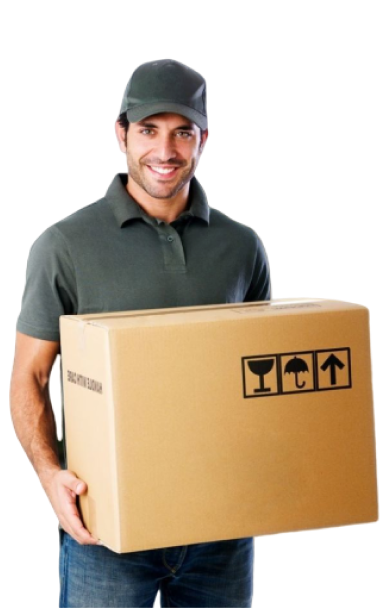
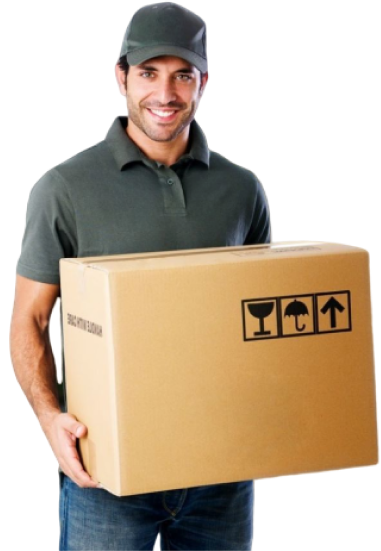
amendments to the header section

Changed region(s): [[0.0, 0.0, 1.0, 0.9564], [0.4042, 0.9564, 0.4331, 0.9873]]

diff --git a/app/css/app.min.css b/app/css/app.min.css
@@ -1,1 +1,1 @@
-*,::after,::before{-webkit-box-sizing:border-box;box-sizing:border-box}html{font-family:sans-serif;line-height:1.15;-webkit-text-size-adjust:100%;-webkit-tap-highlight-color:transparent}article,aside,figcaption,figure,footer,header,hgroup,main,nav,section{display:block}body{margin:0;font-family:-apple-system,BlinkMacSystemFont,"Segoe UI",Roboto,"Helvetica Neue",Arial,"Noto Sans",sans-serif,"Apple Color Emoji","Segoe UI Emoji","Segoe UI Symbol","Noto Color Emoji";font-size:1rem;font-weight:400;line-height:1.5;color:#212529;text-align:left;background-color:#fff}[tabindex="-1"]:focus:not(:focus-visible){outline:0!important}hr{-webkit-box-sizing:content-box;box-sizing:content-box;height:0;overflow:visible}h1,h2,h3,h4,h5,h6{margin-top:0;margin-bottom:.5rem}p{margin-top:0;margin-bottom:1rem}abbr[data-original-title],abbr[title]{text-decoration:underline;-webkit-text-decoration:underline dotted;text-decoration:underline dotted;cursor:help;border-bottom:0;-webkit-text-decoration-skip-ink:none;text-decoration-skip-ink:none}address{margin-bottom:1rem;font-style:normal;line-height:inherit}dl,ol,ul{margin-top:0;margin-bottom:1rem}ol ol,ol ul,ul ol,ul ul{margin-bottom:0}dt{font-weight:700}dd{margin-bottom:.5rem;margin-left:0}blockquote{margin:0 0 1rem}b,strong{font-weight:bolder}small{font-size:80%}sub,sup{position:relative;font-size:75%;line-height:0;vertical-align:baseline}sub{bottom:-.25em}sup{top:-.5em}a{color:#007bff;text-decoration:none;background-color:transparent}a:hover{color:#0056b3;text-decoration:underline}a:not([href]):not([class]){color:inherit;text-decoration:none}a:not([href]):not([class]):hover{color:inherit;text-decoration:none}code,kbd,pre,samp{font-family:SFMono-Regular,Menlo,Monaco,Consolas,"Liberation Mono","Courier New",monospace;font-size:1em}pre{margin-top:0;margin-bottom:1rem;overflow:auto;-ms-overflow-style:scrollbar}figure{margin:0 0 1rem}img{vertical-align:middle;border-style:none}svg{overflow:hidden;vertical-align:middle}table{border-collapse:collapse}caption{padding-top:.75rem;padding-bottom:.75rem;color:#6c757d;text-align:left;caption-side:bottom}th{text-align:inherit;text-align:-webkit-match-parent}label{display:inline-block;margin-bottom:.5rem}button{border-radius:0}button:focus{outline:1px dotted;outline:5px auto -webkit-focus-ring-color}button,input,optgroup,select,textarea{margin:0;font-family:inherit;font-size:inherit;line-height:inherit}button,input{overflow:visible}button,select{text-transform:none}[role=button]{cursor:pointer}select{word-wrap:normal}[type=button],[type=reset],[type=submit],button{-webkit-appearance:button}[type=button]:not(:disabled),[type=reset]:not(:disabled),[type=submit]:not(:disabled),button:not(:disabled){cursor:pointer}[type=button]::-moz-focus-inner,[type=reset]::-moz-focus-inner,[type=submit]::-moz-focus-inner,button::-moz-focus-inner{padding:0;border-style:none}input[type=checkbox],input[type=radio]{-webkit-box-sizing:border-box;box-sizing:border-box;padding:0}textarea{overflow:auto;resize:vertical}fieldset{min-width:0;padding:0;margin:0;border:0}legend{display:block;width:100%;max-width:100%;padding:0;margin-bottom:.5rem;font-size:1.5rem;line-height:inherit;color:inherit;white-space:normal}progress{vertical-align:baseline}[type=number]::-webkit-inner-spin-button,[type=number]::-webkit-outer-spin-button{height:auto}[type=search]{outline-offset:-2px;-webkit-appearance:none}[type=search]::-webkit-search-decoration{-webkit-appearance:none}::-webkit-file-upload-button{font:inherit;-webkit-appearance:button}output{display:inline-block}summary{display:list-item;cursor:pointer}template{display:none}[hidden]{display:none!important}@font-face{font-family:Montserrat;font-style:normal;font-weight:300;src:local("Montserrat"),url(../fonts/montserrat-light-webfont.woff2) format("woff2")}@font-face{font-family:Montserrat;font-style:normal;font-weight:400;src:local("Montserrat"),url(../fonts/montserrat-regular-webfont.woff2) format("woff2")}@font-face{font-family:Montserrat;font-style:normal;font-weight:500;src:local("Montserrat"),url(../fonts/montserrat-medium-webfont.woff2) format("woff2")}@font-face{font-family:Montserrat;font-style:normal;font-weight:600;src:local("Montserrat"),url(../fonts/montserrat-semibold-webfont.woff2) format("woff2")}@font-face{font-family:Montserrat;font-style:normal;font-weight:700;src:local("Montserrat"),url(../fonts/montserrat-bold-webfont.woff2) format("woff2")}::-webkit-input-placeholder{color:#333}::-moz-placeholder{color:#333}:-ms-input-placeholder{color:#333}::-ms-input-placeholder{color:#333}::placeholder{color:#333}::-moz-selection{background-color:#211111;color:#333}::selection{background-color:#211111;color:#333}input,textarea{outline:0}input:focus:required:invalid,textarea:focus:required:invalid{border-color:red}input:required:valid,textarea:required:valid{border-color:green}a{color:#333}a:hover{color:#ff352b;-webkit-transition:color .3s ease-out;-o-transition:color .3s ease-out;transition:color .3s ease-out;text-decoration:none}a:focus{color:#6e09aa}li,ul{display:inline;padding:0;text-decoration:none;list-style-type:none}h1,h2,h3,h4,h5,h6{margin:0}.container{max-width:1305px;margin:auto}body{font-family:Montserrat,sans-serif;font-size:16px;margin:auto;max-width:1920px;min-width:320px;position:relative;line-height:1.65;overflow-x:hidden;color:#333;background-color:#fff}.header{position:-webkit-sticky;position:sticky;background:#fed100 no-repeat center;padding-right:15px;padding-left:15px;background-position:fixed;background-position-x:86%;background-position-y:69%}.header__top-nav{padding-top:40px;padding-bottom:63px;display:-webkit-box;display:-ms-flexbox;display:flex;-webkit-box-pack:justify;-ms-flex-pack:justify;justify-content:space-between;-webkit-box-align:center;-ms-flex-align:center;align-items:center}.header__logo{font-family:Montserrat,sans-serif;font-weight:600;font-size:30px;line-height:37px;color:#333;padding-right:95px}.header__menu .top-menu__item{font-family:Montserrat,sans-serif;font-weight:500;font-size:18px;line-height:22px;color:#333;padding-right:46px}.header__menu .top-menu__item:last-child{padding-right:0}.header__menu .top-menu__link{position:relative}.header__menu .top-menu__link::after{display:block;position:absolute;left:0;width:0;height:2px;background-color:red;content:"";-webkit-transition:width .3s ease-out;-o-transition:width .3s ease-out;transition:width .3s ease-out}.header__menu .top-menu__link:hover:after{width:100%}.header__menu .top-menu__link:focus:after{width:100%}.header__phone{font-family:Montserrat,sans-serif;font-weight:600;font-size:24px;line-height:21px;color:#333;border-bottom:1px solid #333;display:inline-block;-webkit-transition:all .3s ease-out;-o-transition:all .3s ease-out;transition:all .3s ease-out}.header__phone:hover{border-bottom:1px solid #ff352b}.header__phone:focus{border-bottom:1px solid #ff352b}.header__main-content{position:relative}.header__main-content .header-main__title-block{padding-bottom:50px}.header__main-content .header-main__title{font-family:Montserrat,sans-serif;font-weight:700;font-size:70px;line-height:74px;color:#333;padding-bottom:15px}.header__main-content .header-main__subtitle{font-family:Montserrat,sans-serif;font-weight:600;font-size:30px;line-height:37px;color:#333}.header__main-content .header-main__button-block{max-width:546px;padding-bottom:83px}.header__main-content .header-main__button{position:relative;font-family:Montserrat,sans-serif;font-weight:600;font-size:24px;line-height:29px;color:#f2f2f2;background-color:#ff352b;padding:16px 95px;text-align:center;outline:0;border:none;-webkit-transition:color .5s;-o-transition:color .5s;transition:color .5s;cursor:pointer;margin-bottom:76px}.header__main-content .header-main__button:after{content:"";position:absolute;left:10px;top:10px;width:100%;height:100%;border:2px solid #f2f2f2;-webkit-transition:all .3s .2s;-o-transition:all .3s .2s;transition:all .3s .2s;z-index:-1}.header__main-content .header-main__button:hover{color:#f2f2f2}.header__main-content .header-main__button:hover:after{-webkit-transition:all .3s;-o-transition:all .3s;transition:all .3s;left:0;top:0;z-index:0}.header__main-content .header-main__advantages{display:-webkit-box;display:-ms-flexbox;display:flex;-webkit-box-pack:justify;-ms-flex-pack:justify;justify-content:space-between;-webkit-box-align:center;-ms-flex-align:center;align-items:center}.header__main-content .header-main__advantages-block{display:-webkit-box;display:-ms-flexbox;display:flex;-webkit-box-orient:horizontal;-webkit-box-direction:reverse;-ms-flex-direction:row-reverse;flex-direction:row-reverse;-webkit-box-align:center;-ms-flex-align:center;align-items:center;-webkit-box-pack:center;-ms-flex-pack:center;justify-content:center}.header__main-content .header-main__advantages-text{font-family:Montserrat,sans-serif;font-weight:400;font-size:16px;line-height:21px;color:#333}.header__main-content .header-main__advantages-img{padding-right:10px}.header__main-content .header-main__image{position:absolute;left:47%;top:-19%;z-index:-1}.header__main-content .header-main__image::after{position:absolute;content:'movee';text-transform:uppercase;display:block;font-family:Montserrat,sans-serif;font-weight:500;font-size:20px;line-height:24px;color:#333;-webkit-transform:rotate(-7deg);-ms-transform:rotate(-7deg);transform:rotate(-7deg);left:34%;top:85%}.header__main-content .header-main__car-img{position:absolute;top:21%;left:78%;z-index:-1}.header__main-content .header-main__phone{position:absolute;right:35px;bottom:58px}.header__main-content .header-main__phone .phone-main__block,.header__main-content .header-main__phone .phone-main__phone,.header__main-content .header-main__phone .phone-main__pulse{position:absolute;width:100px;height:100px;color:#fff;text-align:center;border-radius:50%}.header__main-content .header-main__phone .phone-main__block{cursor:pointer;z-index:1;overflow:hidden}.header__main-content .header-main__phone .phone-main__pulse{background:#5cc2e2;position:relative;-webkit-transition:.5s;-o-transition:.5s;transition:.5s}.header__main-content .header-main__phone .phone-main__phone{font-size:50px;line-height:94px;-webkit-animation:phone .9s ease-in-out infinite;animation:phone .9s ease-in-out infinite}.header__main-content .header-main__phone .phone-main__text{position:absolute;opacity:0;text-transform:uppercase;font-weight:700;top:28px;font-size:15px;-webkit-transform:scaleX(-1);-ms-transform:scaleX(-1);transform:scaleX(-1);-webkit-transition:.5s ease-in-out;-o-transition:.5s ease-in-out;transition:.5s ease-in-out}.header__main-content .header-main__phone .phone-main__phone img{-webkit-transition:.5s ease-in-out;-o-transition:.5s ease-in-out;transition:.5s ease-in-out}.header__main-content .header-main__phone .phone-main__pulse:hover{background:#29aee3}.header__main-content .header-main__phone .phone-main__pulse:hover img{-webkit-transition:.5s ease-in-out;-o-transition:.5s ease-in-out;transition:.5s ease-in-out;-webkit-transform:scale(0);-ms-transform:scale(0);transform:scale(0)}.header__main-content .header-main__phone .phone-main__pulse:hover .phone-main__text{-webkit-transform:scaleX(1);-ms-transform:scaleX(1);transform:scaleX(1);-webkit-transition:.5s ease-in-out;-o-transition:.5s ease-in-out;transition:.5s ease-in-out;opacity:1}.header__main-content .header-main__phone .phone-main__pulse:hover::after,.header__main-content .header-main__phone .phone-main__pulse:hover::before{content:'';position:absolute;border:1px solid #29aee3;left:-20px;right:-20px;top:-20px;bottom:-20px;border-radius:50%;-webkit-animation:pulse 1.8s linear infinite;animation:pulse 1.8s linear infinite;opacity:0}.header__main-content .header-main__phone .phone-main__pulse:hover::after{-webkit-animation-delay:.5s;animation-delay:.5s}@-webkit-keyframes phone{0%,100%{-webkit-transform:rotate(-20deg);transform:rotate(-20deg)}50%{-webkit-transform:rotate(21deg);transform:rotate(21deg)}}@keyframes phone{0%,100%{-webkit-transform:rotate(-20deg);transform:rotate(-20deg)}50%{-webkit-transform:rotate(21deg);transform:rotate(21deg)}}@-webkit-keyframes pulse{0%{-webkit-transform:scale(.5);transform:scale(.5);opacity:0}50%{opacity:1}100%{-webkit-transform:scale(1.2);transform:scale(1.2);opacity:0}}@keyframes pulse{0%{-webkit-transform:scale(.5);transform:scale(.5);opacity:0}50%{opacity:1}100%{-webkit-transform:scale(1.2);transform:scale(1.2);opacity:0}}
+*,::after,::before{-webkit-box-sizing:border-box;box-sizing:border-box}html{font-family:sans-serif;line-height:1.15;-webkit-text-size-adjust:100%;-webkit-tap-highlight-color:transparent}article,aside,figcaption,figure,footer,header,hgroup,main,nav,section{display:block}body{margin:0;font-family:-apple-system,BlinkMacSystemFont,"Segoe UI",Roboto,"Helvetica Neue",Arial,"Noto Sans",sans-serif,"Apple Color Emoji","Segoe UI Emoji","Segoe UI Symbol","Noto Color Emoji";font-size:1rem;font-weight:400;line-height:1.5;color:#212529;text-align:left;background-color:#fff}[tabindex="-1"]:focus:not(:focus-visible){outline:0!important}hr{-webkit-box-sizing:content-box;box-sizing:content-box;height:0;overflow:visible}h1,h2,h3,h4,h5,h6{margin-top:0;margin-bottom:.5rem}p{margin-top:0;margin-bottom:1rem}abbr[data-original-title],abbr[title]{text-decoration:underline;-webkit-text-decoration:underline dotted;text-decoration:underline dotted;cursor:help;border-bottom:0;-webkit-text-decoration-skip-ink:none;text-decoration-skip-ink:none}address{margin-bottom:1rem;font-style:normal;line-height:inherit}dl,ol,ul{margin-top:0;margin-bottom:1rem}ol ol,ol ul,ul ol,ul ul{margin-bottom:0}dt{font-weight:700}dd{margin-bottom:.5rem;margin-left:0}blockquote{margin:0 0 1rem}b,strong{font-weight:bolder}small{font-size:80%}sub,sup{position:relative;font-size:75%;line-height:0;vertical-align:baseline}sub{bottom:-.25em}sup{top:-.5em}a{color:#007bff;text-decoration:none;background-color:transparent}a:hover{color:#0056b3;text-decoration:underline}a:not([href]):not([class]){color:inherit;text-decoration:none}a:not([href]):not([class]):hover{color:inherit;text-decoration:none}code,kbd,pre,samp{font-family:SFMono-Regular,Menlo,Monaco,Consolas,"Liberation Mono","Courier New",monospace;font-size:1em}pre{margin-top:0;margin-bottom:1rem;overflow:auto;-ms-overflow-style:scrollbar}figure{margin:0 0 1rem}img{vertical-align:middle;border-style:none}svg{overflow:hidden;vertical-align:middle}table{border-collapse:collapse}caption{padding-top:.75rem;padding-bottom:.75rem;color:#6c757d;text-align:left;caption-side:bottom}th{text-align:inherit;text-align:-webkit-match-parent}label{display:inline-block;margin-bottom:.5rem}button{border-radius:0}button:focus{outline:1px dotted;outline:5px auto -webkit-focus-ring-color}button,input,optgroup,select,textarea{margin:0;font-family:inherit;font-size:inherit;line-height:inherit}button,input{overflow:visible}button,select{text-transform:none}[role=button]{cursor:pointer}select{word-wrap:normal}[type=button],[type=reset],[type=submit],button{-webkit-appearance:button}[type=button]:not(:disabled),[type=reset]:not(:disabled),[type=submit]:not(:disabled),button:not(:disabled){cursor:pointer}[type=button]::-moz-focus-inner,[type=reset]::-moz-focus-inner,[type=submit]::-moz-focus-inner,button::-moz-focus-inner{padding:0;border-style:none}input[type=checkbox],input[type=radio]{-webkit-box-sizing:border-box;box-sizing:border-box;padding:0}textarea{overflow:auto;resize:vertical}fieldset{min-width:0;padding:0;margin:0;border:0}legend{display:block;width:100%;max-width:100%;padding:0;margin-bottom:.5rem;font-size:1.5rem;line-height:inherit;color:inherit;white-space:normal}progress{vertical-align:baseline}[type=number]::-webkit-inner-spin-button,[type=number]::-webkit-outer-spin-button{height:auto}[type=search]{outline-offset:-2px;-webkit-appearance:none}[type=search]::-webkit-search-decoration{-webkit-appearance:none}::-webkit-file-upload-button{font:inherit;-webkit-appearance:button}output{display:inline-block}summary{display:list-item;cursor:pointer}template{display:none}[hidden]{display:none!important}@font-face{font-family:Montserrat;font-style:normal;font-weight:300;src:local("Montserrat"),url(../fonts/montserrat-light-webfont.woff2) format("woff2")}@font-face{font-family:Montserrat;font-style:normal;font-weight:400;src:local("Montserrat"),url(../fonts/montserrat-regular-webfont.woff2) format("woff2")}@font-face{font-family:Montserrat;font-style:normal;font-weight:500;src:local("Montserrat"),url(../fonts/montserrat-medium-webfont.woff2) format("woff2")}@font-face{font-family:Montserrat;font-style:normal;font-weight:600;src:local("Montserrat"),url(../fonts/montserrat-semibold-webfont.woff2) format("woff2")}@font-face{font-family:Montserrat;font-style:normal;font-weight:700;src:local("Montserrat"),url(../fonts/montserrat-bold-webfont.woff2) format("woff2")}::-webkit-input-placeholder{color:#333}::-moz-placeholder{color:#333}:-ms-input-placeholder{color:#333}::-ms-input-placeholder{color:#333}::placeholder{color:#333}::-moz-selection{background-color:#211111;color:#333}::selection{background-color:#211111;color:#333}input,textarea{outline:0}input:focus:required:invalid,textarea:focus:required:invalid{border-color:red}input:required:valid,textarea:required:valid{border-color:green}a{color:#333}a:hover{color:#ff352b;-webkit-transition:color .3s ease-out;-o-transition:color .3s ease-out;transition:color .3s ease-out;text-decoration:none}a:focus{color:#6e09aa}li,ul{display:inline;padding:0;text-decoration:none;list-style-type:none}h1,h2,h3,h4,h5,h6{margin:0}.container{max-width:1305px;margin:auto}body{font-family:Montserrat,sans-serif;font-size:16px;margin:auto;max-width:1920px;min-width:320px;position:relative;line-height:1.65;overflow-x:hidden;color:#333;background-color:#fff}.header{position:-webkit-sticky;position:sticky;background-color:#fed100;padding-right:15px;padding-left:15px}.header__top-nav{padding-top:40px;padding-bottom:63px;display:-webkit-box;display:-ms-flexbox;display:flex;-webkit-box-pack:justify;-ms-flex-pack:justify;justify-content:space-between;-webkit-box-align:center;-ms-flex-align:center;align-items:center}.header__logo{font-family:Montserrat,sans-serif;font-weight:600;font-size:30px;line-height:37px;color:#333;padding-right:95px}.header__menu .top-menu__item{font-family:Montserrat,sans-serif;font-weight:500;font-size:18px;line-height:22px;color:#333;padding-right:46px}.header__menu .top-menu__item:last-child{padding-right:0}.header__menu .top-menu__link{position:relative}.header__menu .top-menu__link::after{display:block;position:absolute;left:0;width:0;height:2px;background-color:red;content:"";-webkit-transition:width .3s ease-out;-o-transition:width .3s ease-out;transition:width .3s ease-out}.header__menu .top-menu__link:hover:after{width:100%}.header__menu .top-menu__link:focus:after{width:100%}.header__phone{font-family:Montserrat,sans-serif;font-weight:600;font-size:24px;line-height:21px;color:#333;border-bottom:1px solid #333;display:inline-block;-webkit-transition:all .3s ease-out;-o-transition:all .3s ease-out;transition:all .3s ease-out}.header__phone:hover{border-bottom:1px solid #ff352b}.header__phone:focus{border-bottom:1px solid #ff352b}.header__main-content{position:relative}.header__main-content .header-main__title-block{padding-bottom:50px}.header__main-content .header-main__title{font-family:Montserrat,sans-serif;font-weight:700;font-size:70px;line-height:74px;color:#333;padding-bottom:15px}.header__main-content .header-main__subtitle{font-family:Montserrat,sans-serif;font-weight:600;font-size:30px;line-height:37px;color:#333}.header__main-content .header-main__button-block{max-width:546px;padding-bottom:83px}.header__main-content .header-main__button{position:relative;font-family:Montserrat,sans-serif;font-weight:600;font-size:24px;line-height:29px;color:#f2f2f2;background-color:#ff352b;padding:16px 95px;text-align:center;outline:0;border:none;-webkit-transition:color .5s;-o-transition:color .5s;transition:color .5s;cursor:pointer;margin-bottom:76px}.header__main-content .header-main__button:after{content:"";position:absolute;left:10px;top:10px;width:100%;height:100%;border:2px solid #f2f2f2;-webkit-transition:all .3s .2s;-o-transition:all .3s .2s;transition:all .3s .2s;z-index:-1}.header__main-content .header-main__button:hover{color:#f2f2f2}.header__main-content .header-main__button:hover:after{-webkit-transition:all .3s;-o-transition:all .3s;transition:all .3s;left:0;top:0;z-index:0}.header__main-content .header-main__advantages{display:-webkit-box;display:-ms-flexbox;display:flex;-webkit-box-pack:justify;-ms-flex-pack:justify;justify-content:space-between;-webkit-box-align:center;-ms-flex-align:center;align-items:center}.header__main-content .header-main__advantages-block{display:-webkit-box;display:-ms-flexbox;display:flex;-webkit-box-orient:horizontal;-webkit-box-direction:reverse;-ms-flex-direction:row-reverse;flex-direction:row-reverse;-webkit-box-align:center;-ms-flex-align:center;align-items:center;-webkit-box-pack:center;-ms-flex-pack:center;justify-content:center}.header__main-content .header-main__advantages-text{font-family:Montserrat,sans-serif;font-weight:400;font-size:16px;line-height:21px;color:#333}.header__main-content .header-main__advantages-img{padding-right:10px}.header__main-content .header-main__image{position:absolute;left:47%;bottom:0;z-index:-1}.header__main-content .header-main__image::after{position:absolute;content:'movee';text-transform:uppercase;display:block;font-family:Montserrat,sans-serif;font-weight:500;font-size:20px;line-height:24px;color:#333;-webkit-transform:rotate(-7deg);-ms-transform:rotate(-7deg);transform:rotate(-7deg);left:34%;top:84%}.header__main-content .header-main__worker-img{position:relative;max-width:100%}.header__main-content .header-main__car-img{position:absolute;max-width:499px;top:21%;left:78%;z-index:-1}.header__main-content .header-main__phone{position:absolute;right:35px;bottom:58px}.header__main-content .header-main__phone .phone-main__block,.header__main-content .header-main__phone .phone-main__phone,.header__main-content .header-main__phone .phone-main__pulse{position:absolute;width:100px;height:100px;color:#fff;text-align:center;border-radius:50%}.header__main-content .header-main__phone .phone-main__block{cursor:pointer;z-index:1;overflow:hidden}.header__main-content .header-main__phone .phone-main__pulse{background:#5cc2e2;position:relative;-webkit-transition:.5s;-o-transition:.5s;transition:.5s}.header__main-content .header-main__phone .phone-main__phone{font-size:50px;line-height:94px;-webkit-animation:phone .9s ease-in-out infinite;animation:phone .9s ease-in-out infinite}.header__main-content .header-main__phone .phone-main__text{position:absolute;opacity:0;text-transform:uppercase;font-weight:700;top:28px;font-size:15px;-webkit-transform:scaleX(-1);-ms-transform:scaleX(-1);transform:scaleX(-1);-webkit-transition:.5s ease-in-out;-o-transition:.5s ease-in-out;transition:.5s ease-in-out}.header__main-content .header-main__phone .phone-main__phone img{-webkit-transition:.5s ease-in-out;-o-transition:.5s ease-in-out;transition:.5s ease-in-out}.header__main-content .header-main__phone .phone-main__pulse:hover{background:#29aee3}.header__main-content .header-main__phone .phone-main__pulse:hover img{-webkit-transition:.5s ease-in-out;-o-transition:.5s ease-in-out;transition:.5s ease-in-out;-webkit-transform:scale(0);-ms-transform:scale(0);transform:scale(0)}.header__main-content .header-main__phone .phone-main__pulse:hover .phone-main__text{-webkit-transform:scaleX(1);-ms-transform:scaleX(1);transform:scaleX(1);-webkit-transition:.5s ease-in-out;-o-transition:.5s ease-in-out;transition:.5s ease-in-out;opacity:1}.header__main-content .header-main__phone .phone-main__pulse:hover::after,.header__main-content .header-main__phone .phone-main__pulse:hover::before{content:'';position:absolute;border:1px solid #29aee3;left:-20px;right:-20px;top:-20px;bottom:-20px;border-radius:50%;-webkit-animation:pulse 1.8s linear infinite;animation:pulse 1.8s linear infinite;opacity:0}.header__main-content .header-main__phone .phone-main__pulse:hover::after{-webkit-animation-delay:.5s;animation-delay:.5s}@-webkit-keyframes phone{0%,100%{-webkit-transform:rotate(-20deg);transform:rotate(-20deg)}50%{-webkit-transform:rotate(21deg);transform:rotate(21deg)}}@keyframes phone{0%,100%{-webkit-transform:rotate(-20deg);transform:rotate(-20deg)}50%{-webkit-transform:rotate(21deg);transform:rotate(21deg)}}@-webkit-keyframes pulse{0%{-webkit-transform:scale(.5);transform:scale(.5);opacity:0}50%{opacity:1}100%{-webkit-transform:scale(1.2);transform:scale(1.2);opacity:0}}@keyframes pulse{0%{-webkit-transform:scale(.5);transform:scale(.5);opacity:0}50%{opacity:1}100%{-webkit-transform:scale(1.2);transform:scale(1.2);opacity:0}}@media screen and (max-width:1535px){.header .header-main__car-img{display:none}}@media screen and (max-width:1120px){.header__main-content .header-main__advantages-block{-webkit-box-orient:vertical;-webkit-box-direction:reverse;-ms-flex-direction:column-reverse;flex-direction:column-reverse}.header__main-content .header-main__advantages-text{text-align:center}.header__main-content .header-main__advantages-img{padding-right:0;padding-bottom:10px}.header__main-content .header-main__button-block{padding-bottom:32px;max-width:455px}}@media screen and (max-width:1080px){.header__menu .top-menu__item{padding-right:30px}.header__logo{padding-right:0}.header__main-content .header-main__phone{bottom:363px}}@media screen and (max-width:930px){.header__top-nav{-webkit-box-pack:start;-ms-flex-pack:start;justify-content:start}.header__logo{padding-right:90px}.header__menu{display:none}.header__main-content{display:-webkit-box;display:-ms-flexbox;display:flex;-webkit-box-orient:vertical;-webkit-box-direction:normal;-ms-flex-direction:column;flex-direction:column;-webkit-box-align:center;-ms-flex-align:center;align-items:center;-webkit-box-pack:center;-ms-flex-pack:center;justify-content:center}.header__main-content .header-main__title-block{text-align:center;padding-bottom:25px}.header__main-content .header-main__phone{display:none}.header__main-content .header-main__image{position:relative;padding-left:66px;left:0;bottom:0;text-align:center}.header__main-content .header-main__image::after{left:43%;top:84%}.header__main-content .header-main__button-block{text-align:center;max-width:455px;min-width:455px}.header__main-content .header-main__button{margin-bottom:25px}.header__main-content .header-main__button::after{display:none}}

diff --git a/app/sass/_header.sass b/app/sass/_header.sass
@@ -1,11 +1,8 @@
 .header
 	position: sticky
-	background: $gold	no-repeat center
+	background-color: $gold
 	padding-right: 15px
 	padding-left: 15px
-	background-position: fixed
-	background-position-x: 86%
-	background-position-y: 69%
 	&__top-nav
 		padding-top: 40px
 		padding-bottom: 63px
@@ -99,7 +96,7 @@
 			&__image
 				position: absolute
 				left: 47%
-				top: -19%
+				bottom: 0
 				z-index: -1
 				&::after
 					position: absolute
@@ -109,9 +106,13 @@
 					@include subtitle
 					transform: rotate(-7deg)
 					left: 34%
-					top: 85%
+					top: 84%
+			&__worker-img
+				position: relative
+				max-width: 100%
 			&__car-img
 				position: absolute
+				max-width: 499px
 				top: 21%
 				left: 78%
 				z-index: -1
@@ -206,4 +207,76 @@
 							transform: scale(1.2)
 							opacity: 0
 
+@media screen and ( max-width: 1535px )
+	.header
+		.header-main__car-img
+			display: none
+
+@media screen and ( max-width: 1120px )
+	.header
+		&__main-content
+			.header-main
+				&__advantages-block
+					flex-direction: column-reverse
+				&__advantages-text
+					text-align: center
+				&__advantages-img
+					padding-right: 0
+					padding-bottom: 10px
+				&__button-block
+					padding-bottom: 32px
+					max-width: 455px
+
+@media screen and ( max-width: 1080px )
+	.header
+		&__menu
+			.top-menu
+				&__item
+					padding-right: 30px
+		&__logo
+			padding-right: 0
+		&__main-content
+			.header-main
+				&__phone
+					bottom: 363px
+
+@media screen and ( max-width: 930px )
+	.header
+		&__top-nav
+			justify-content: start
+		&__logo
+			padding-right: 90px
+		&__menu
+			display: none
+		&__main-content
+			display: flex
+			flex-direction: column
+			align-items: center
+			justify-content: center
+			.header-main
+				&__title-block
+					text-align: center
+					padding-bottom: 25px
+				&__phone
+					display: none
+				&__image
+					position: relative
+					padding-left: 66px
+					left: 0
+					bottom: 0
+					text-align: center
+					&::after
+						left: 43%
+						top: 84%
+				&__button-block
+					text-align: center
+					max-width: 455px
+					min-width: 455px
+				&__button
+					margin-bottom: 25px
+					&::after
+						display: none
+
+
+		
 

diff --git a/app/index.html b/app/index.html
@@ -44,8 +44,12 @@
 								<h2 class="header-main__subtitle">По Москве и области</h2>
 							</div>
 
-							<div class="header-main__button-block">
+							<div class="header-main__image">
+								<img src="images/dest/header/worker_bg.png" class="header-main__worker-img" alt="worker image">
+								<img src="images/dest/header/car_bg.png" class="header-main__car-img" alt="car image">
+							</div>
 
+							<div class="header-main__button-block">
 
 								<button class="header-main__button">
 									Заказать
@@ -70,28 +74,25 @@
 								</div>
 
 							</div>
-
-							<div class="header-main__image">
-								<img src="images/dest/header/worker_bg.png" class="header-main__worker-img" alt="worker image">
-								<img src="images/dest/header/car_bg.png" class="header-main__car-img" alt="car image">
-							</div>
-
-							<div class="header-main__phone phone-main">
+		
+						<div class="header-main__phone phone-main">
+							<a href="tel:88000801213">
 								<div class="phone-main__pulse">
 									<div class="phone-main__block"></div>
 									<div class="phone-main__phone"><img src="images/dest/header/phone.svg" alt="phone icon"></div>
 									<div class="phone-main__text">Кнопка связи</div>
 								</div>
-							</div>
-
+							</a>
 						</div>
 
 					</div>
+
 				</div>
-			</header>
 		</div>
-		<div id="my-content"></div>
-		<div id="my-footer"></div>
+		</header>
+	</div>
+	<div id="my-content"></div>
+	<div id="my-footer"></div>
 	</div>
 	<script src="js/app.min.js"></script>
 </body>
